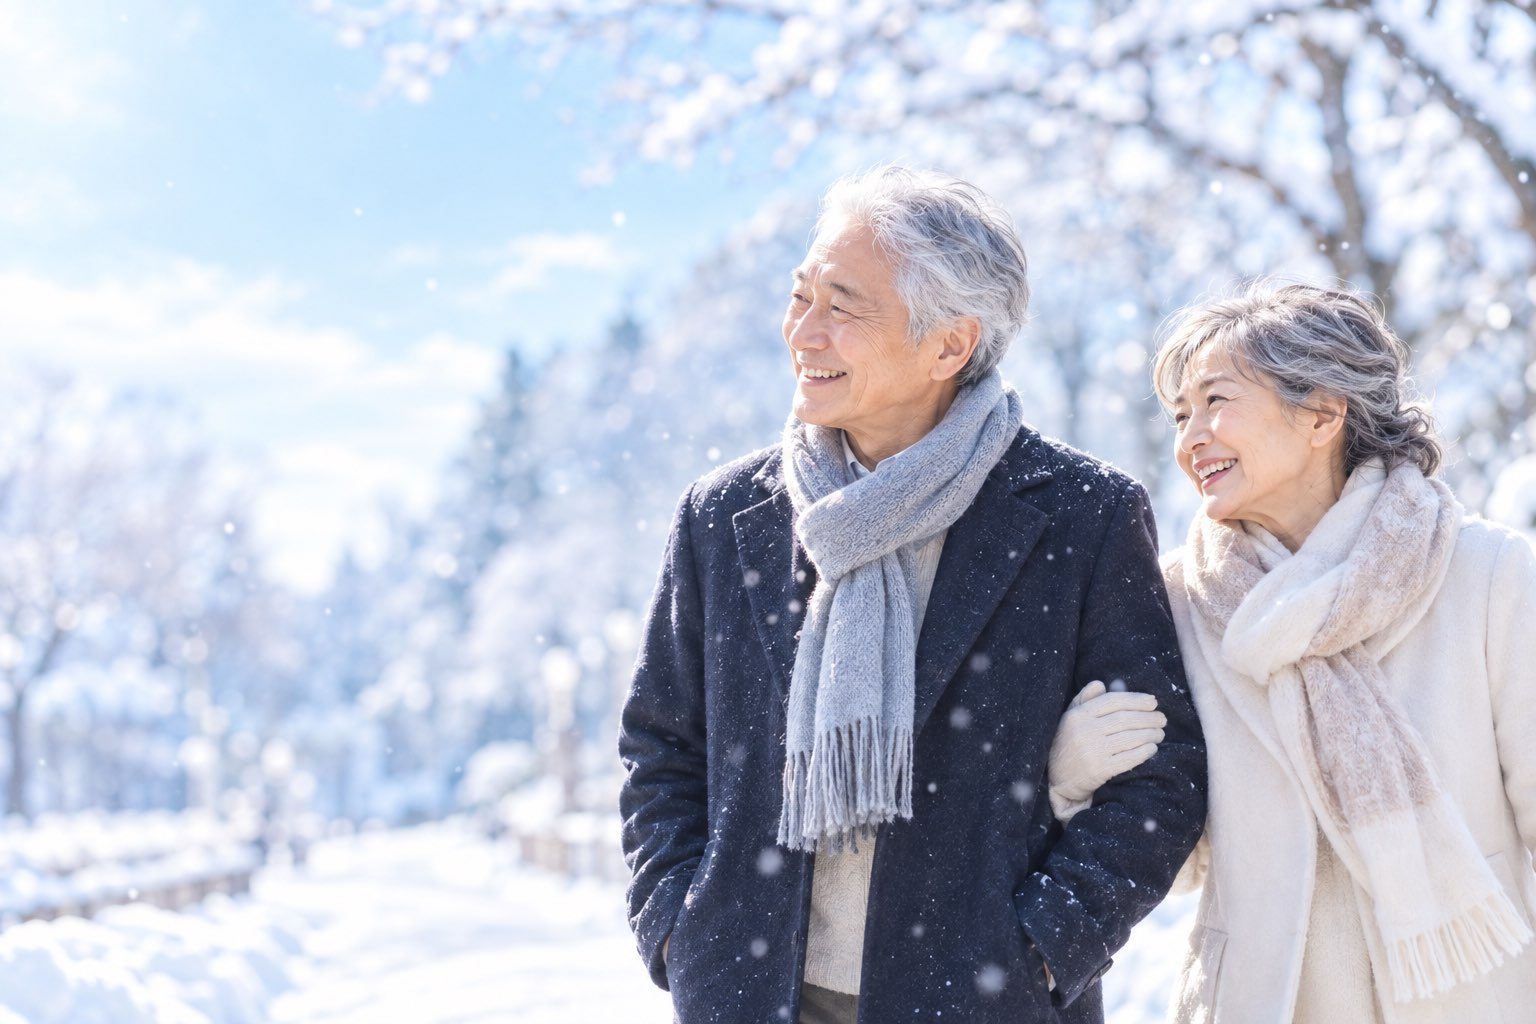
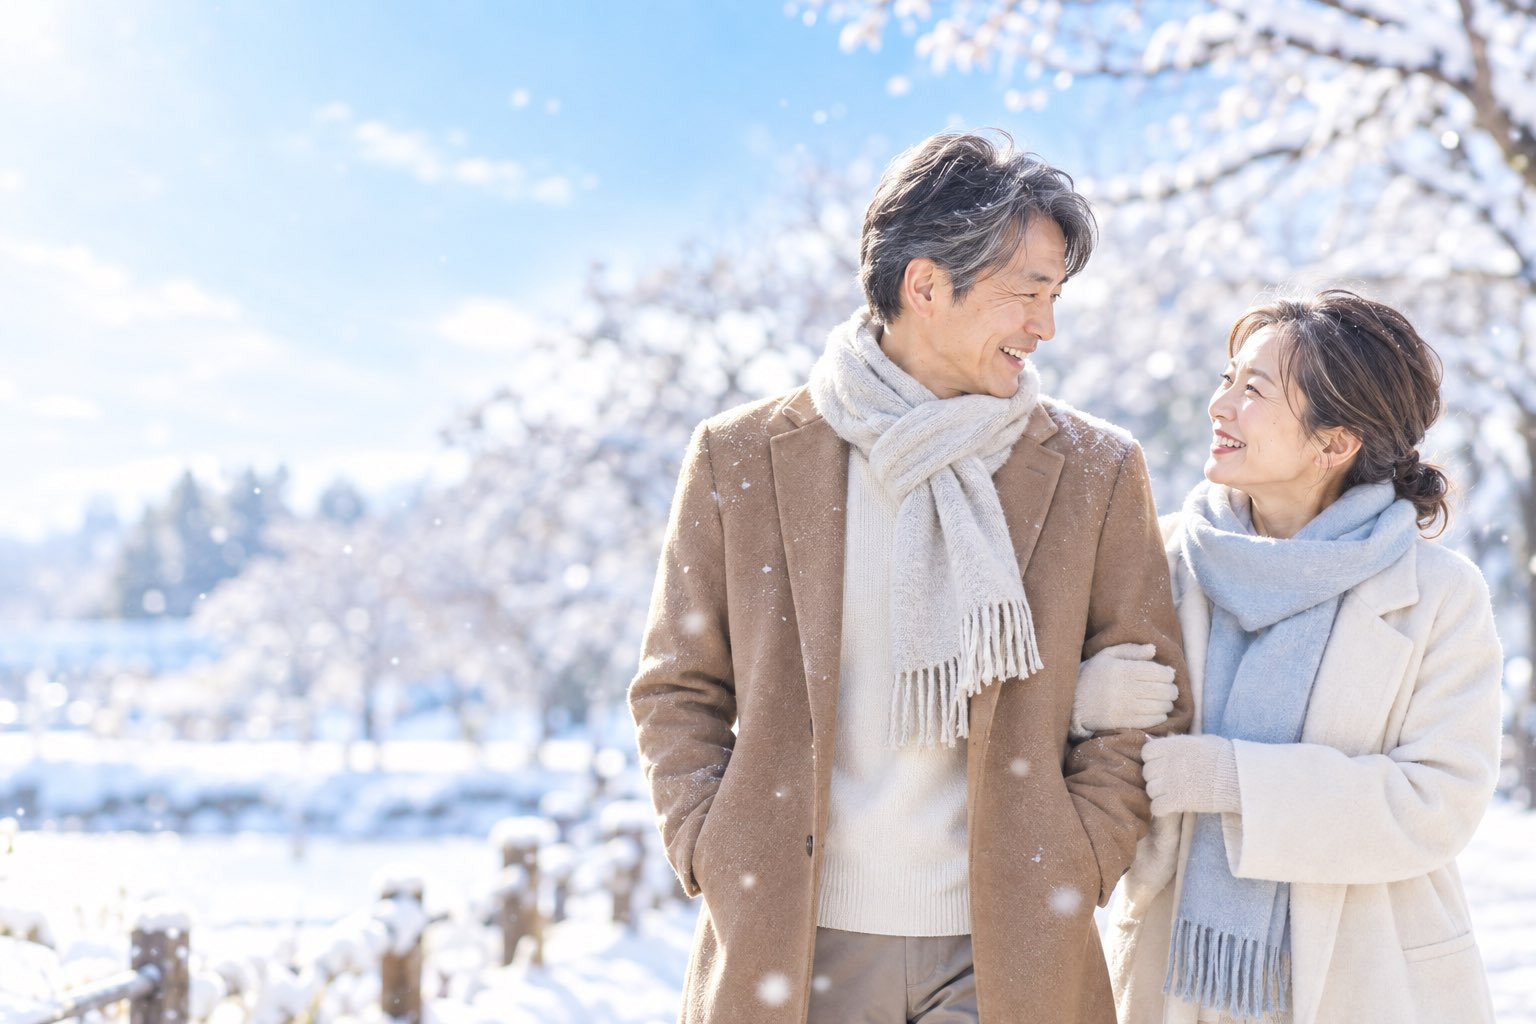
人生の四季の試作：冬を60代前半の二人の写真に差し替える
70代だと、秋（子育て中の家族）から冬までの年齢が離れすぎて見えるため、子どもが独立したあとの60代前半にする。

Claude-Session: https://claude.ai/code/session_01DkWFmwe3Z7eAywpshKupJG

diff --git a/life/index.html b/life/index.html
@@ -96,7 +96,7 @@
       <img decoding="async" width="1536" height="1024" class="is-show" src="../images/life-spring.jpg?v=11091abb" alt="" fetchpriority="high" onerror="this.remove()">
       <img loading="lazy" decoding="async" width="1536" height="1024" data-src="../images/hero-summer.jpg?v=618163a0" alt="">
       <img loading="lazy" decoding="async" width="1536" height="1024" data-src="../images/life-autumn.jpg?v=6a05a14d" alt="">
-      <img loading="lazy" decoding="async" width="1536" height="1024" data-src="../images/life-winter.jpg?v=8f15345c" alt="">
+      <img loading="lazy" decoding="async" width="1536" height="1024" data-src="../images/life-winter.jpg?v=59ed502c" alt="">
     </div>
     <div class="wrap fv-inner">
       <div class="fv-copy">

diff --git a/build.py b/build.py
@@ -1005,7 +1005,7 @@ def season_photos(top, photos=('hero.jpg', 'hero-summer.jpg', 'hero-autumn.jpg',
     return top.replace(hero, first + rest, 1)
 
 
-# 「人生の四季」の試作（/life/）：春＝新婚の二人、夏＝hero-summer.jpg（子育て・肩車。トップの夏と同じ）、秋＝40代の家族、冬＝70代の二人。
+# 「人生の四季」の試作（/life/）：春＝新婚の二人、夏＝hero-summer.jpg（子育て・肩車。トップの夏と同じ）、秋＝40代の家族、冬＝60代前半の二人。
 # 夏に hero.jpg を使うと、トップの「春」と同じ写真に見えてしまうので使わない
 # 2026-10-05、季節の写真の別案として作った。お客さまに今のトップ（同じ家族の1年）と見比べてもらう用で、本番には出さない
 LIFE_PHOTOS = ('life-spring.jpg', 'hero-summer.jpg', 'life-autumn.jpg', 'life-winter.jpg')

diff --git a/README.md b/README.md
@@ -36,7 +36,7 @@
 ## 「人生の四季」の写真の試作（/life/）
 
 - URL：https://easywebcraft.github.io/lfgroup-design/life/ （トップページだけ。今のトップ「同じ家族の1年」と見比べてもらう用。本番には出さない）
-- 2026-10-05、季節の写真の別案として作った。春＝新婚の二人（`images/life-spring.jpg`）、夏＝`hero-summer.jpg`（子育て・公園で肩車。トップの夏と同じ写真。今の hero.jpg はトップの春なので使わない）、秋＝夫婦と小学生の男の子・新しい家（`life-autumn.jpg`）、冬＝70代の二人（`life-winter.jpg`）
+- 2026-10-05、季節の写真の別案として作った。春＝新婚の二人（`images/life-spring.jpg`）、夏＝`hero-summer.jpg`（子育て・公園で肩車。トップの夏と同じ写真。今の hero.jpg はトップの春なので使わない）、秋＝夫婦と小学生の男の子・新しい家（`life-autumn.jpg`）、冬＝60代前半の二人（`life-winter.jpg`。最初は70代で作ったが、秋から冬が離れすぎるので60代に作り直した）
 - 写真は ChatGPT で、今の hero.jpg を添付して「同じ夫婦の人生」として生成。最初は3枚とも夫婦の向きが同じ・秋の子どもが女の子・年齢が若すぎたので、秋と冬を作り直した（春は最初のまま。秋は後ろ姿から振り返る構図の3回目の版）
 - 書き出しは `build.py` の `LIFE_PHOTOS`（`season_photos()` に写真を渡す）。スマホで顔が切れないよう、見せる位置は season.css で写真ごとに合わせている
 
